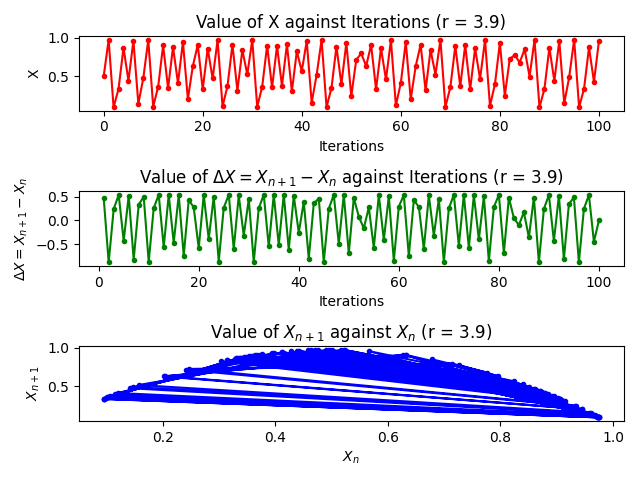
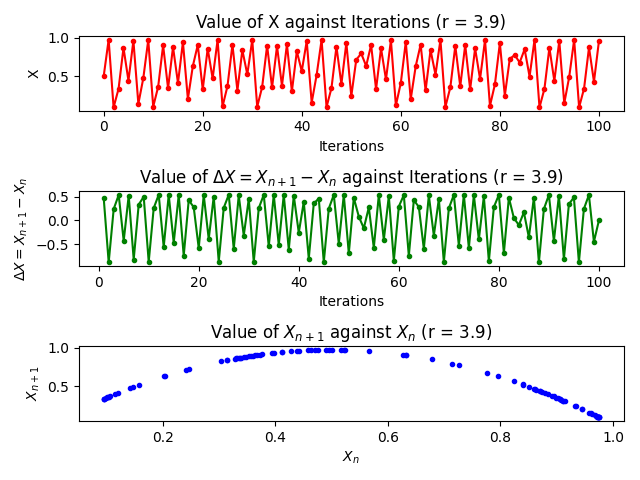
adding plotting parameter

Changed region(s): [[0.1562, 0.7188, 0.9375, 0.875]]

diff --git a/main.py b/main.py
@@ -25,12 +25,12 @@ def get_deltas(x_values):
     return deltas
 
 
-def plot_graphs(x_axis_label, x_axis_values, y_axis_label, y_axis_values, r, c, p):
+def plot_graphs(x_axis_label, x_axis_values, y_axis_label, y_axis_values, r, c, p, l):
     plt.subplot(3, 1, p)
     plt.title(f"Value of {y_axis_label} against {x_axis_label} (r = {r})")
     plt.xlabel(x_axis_label)
     plt.ylabel(y_axis_label)
-    plt.plot(x_axis_values, y_axis_values, color=c, marker=".")
+    plt.plot(x_axis_values, y_axis_values, color=c, marker=".", linestyle=l)
 
 
 def question_a():
@@ -39,7 +39,7 @@ def question_a():
 
         x_values = get_x_values(r)
         iterations_x = np.arange(x_values.size)
-        plot_graphs("Iterations", iterations_x, "X", x_values, r, "r", 1)
+        plot_graphs("Iterations", iterations_x, "X", x_values, r, "r", 1, "-")
 
         deltas = get_deltas(x_values)
         iterations_delta = np.arange(1, deltas.size + 1)
@@ -51,11 +51,12 @@ def question_a():
             r,
             "g",
             2,
+            "-"
         )
 
         successors = x_values[1:]
         predecessors = x_values[:-1]
-        plot_graphs(r"$X_n$", predecessors, r"$X_{n + 1}$", successors, r, "b", 3)
+        plot_graphs(r"$X_n$", predecessors, r"$X_{n + 1}$", successors, r, "b", 3, "None")
 
         plt.tight_layout()
         plt.savefig(f"./images/plot_r_{r}.png")
@@ -92,7 +93,7 @@ def question_b():
     plt.title("Value of R against Iterations")
     plt.xlabel("Iterations")
     plt.ylabel("R")
-    plt.plot(iteration_list, r_list, color="r", marker=".")
+    plt.plot(iteration_list, r_list, color="r", marker=".", linestyle="-")
     plt.savefig(f"./images/chaotic_behavior_analysis.png")
     plt.show()
     plt.close()
